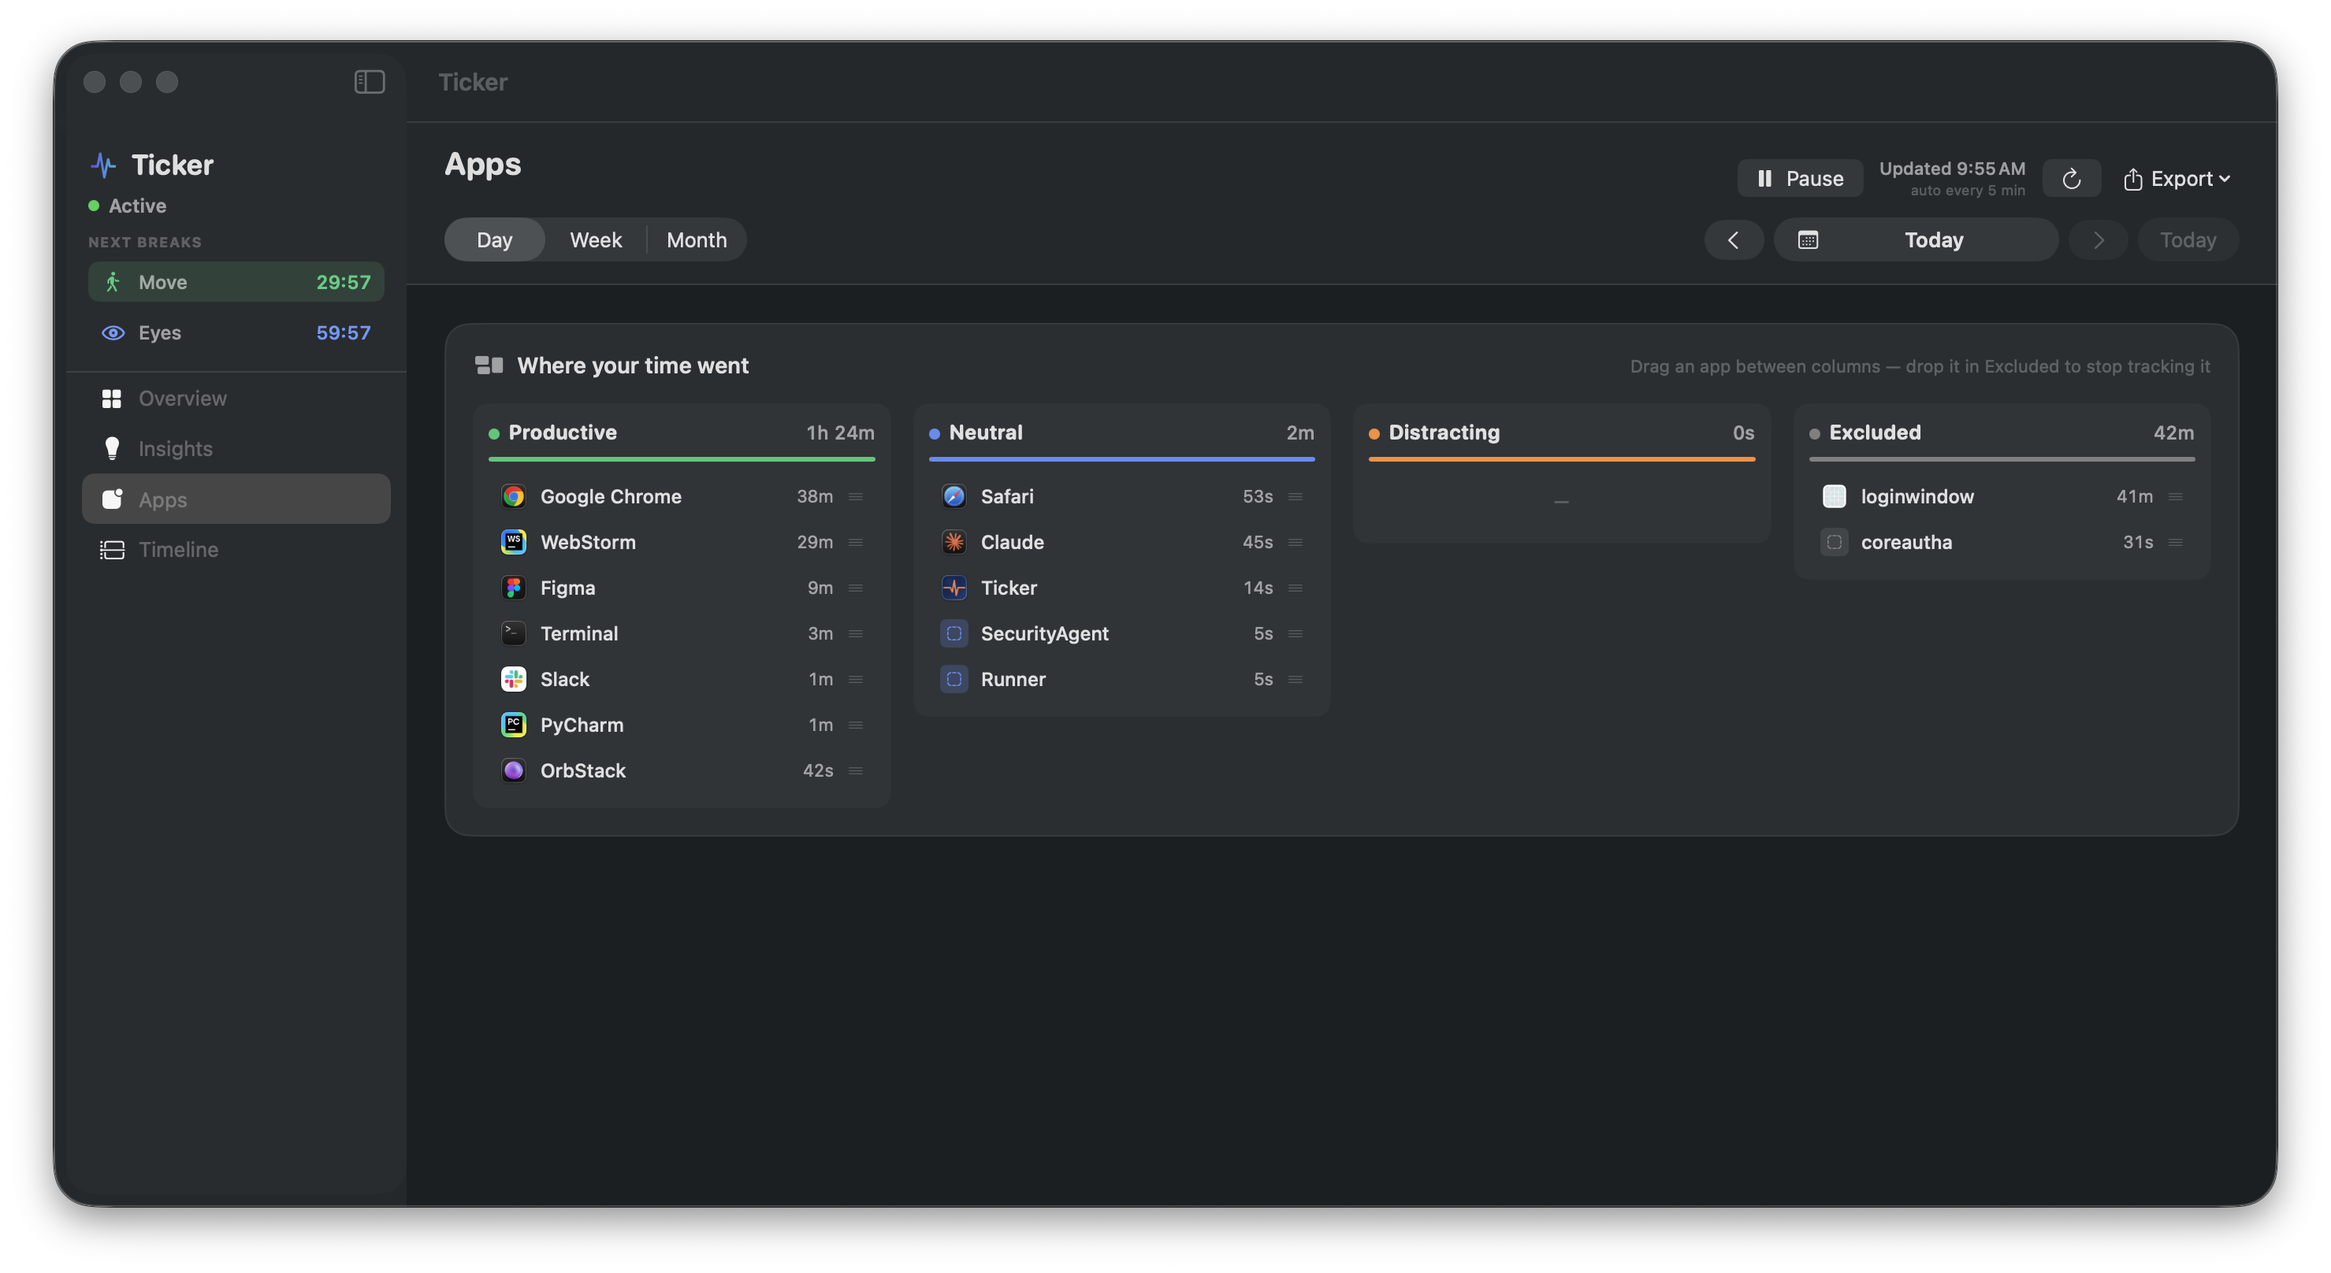
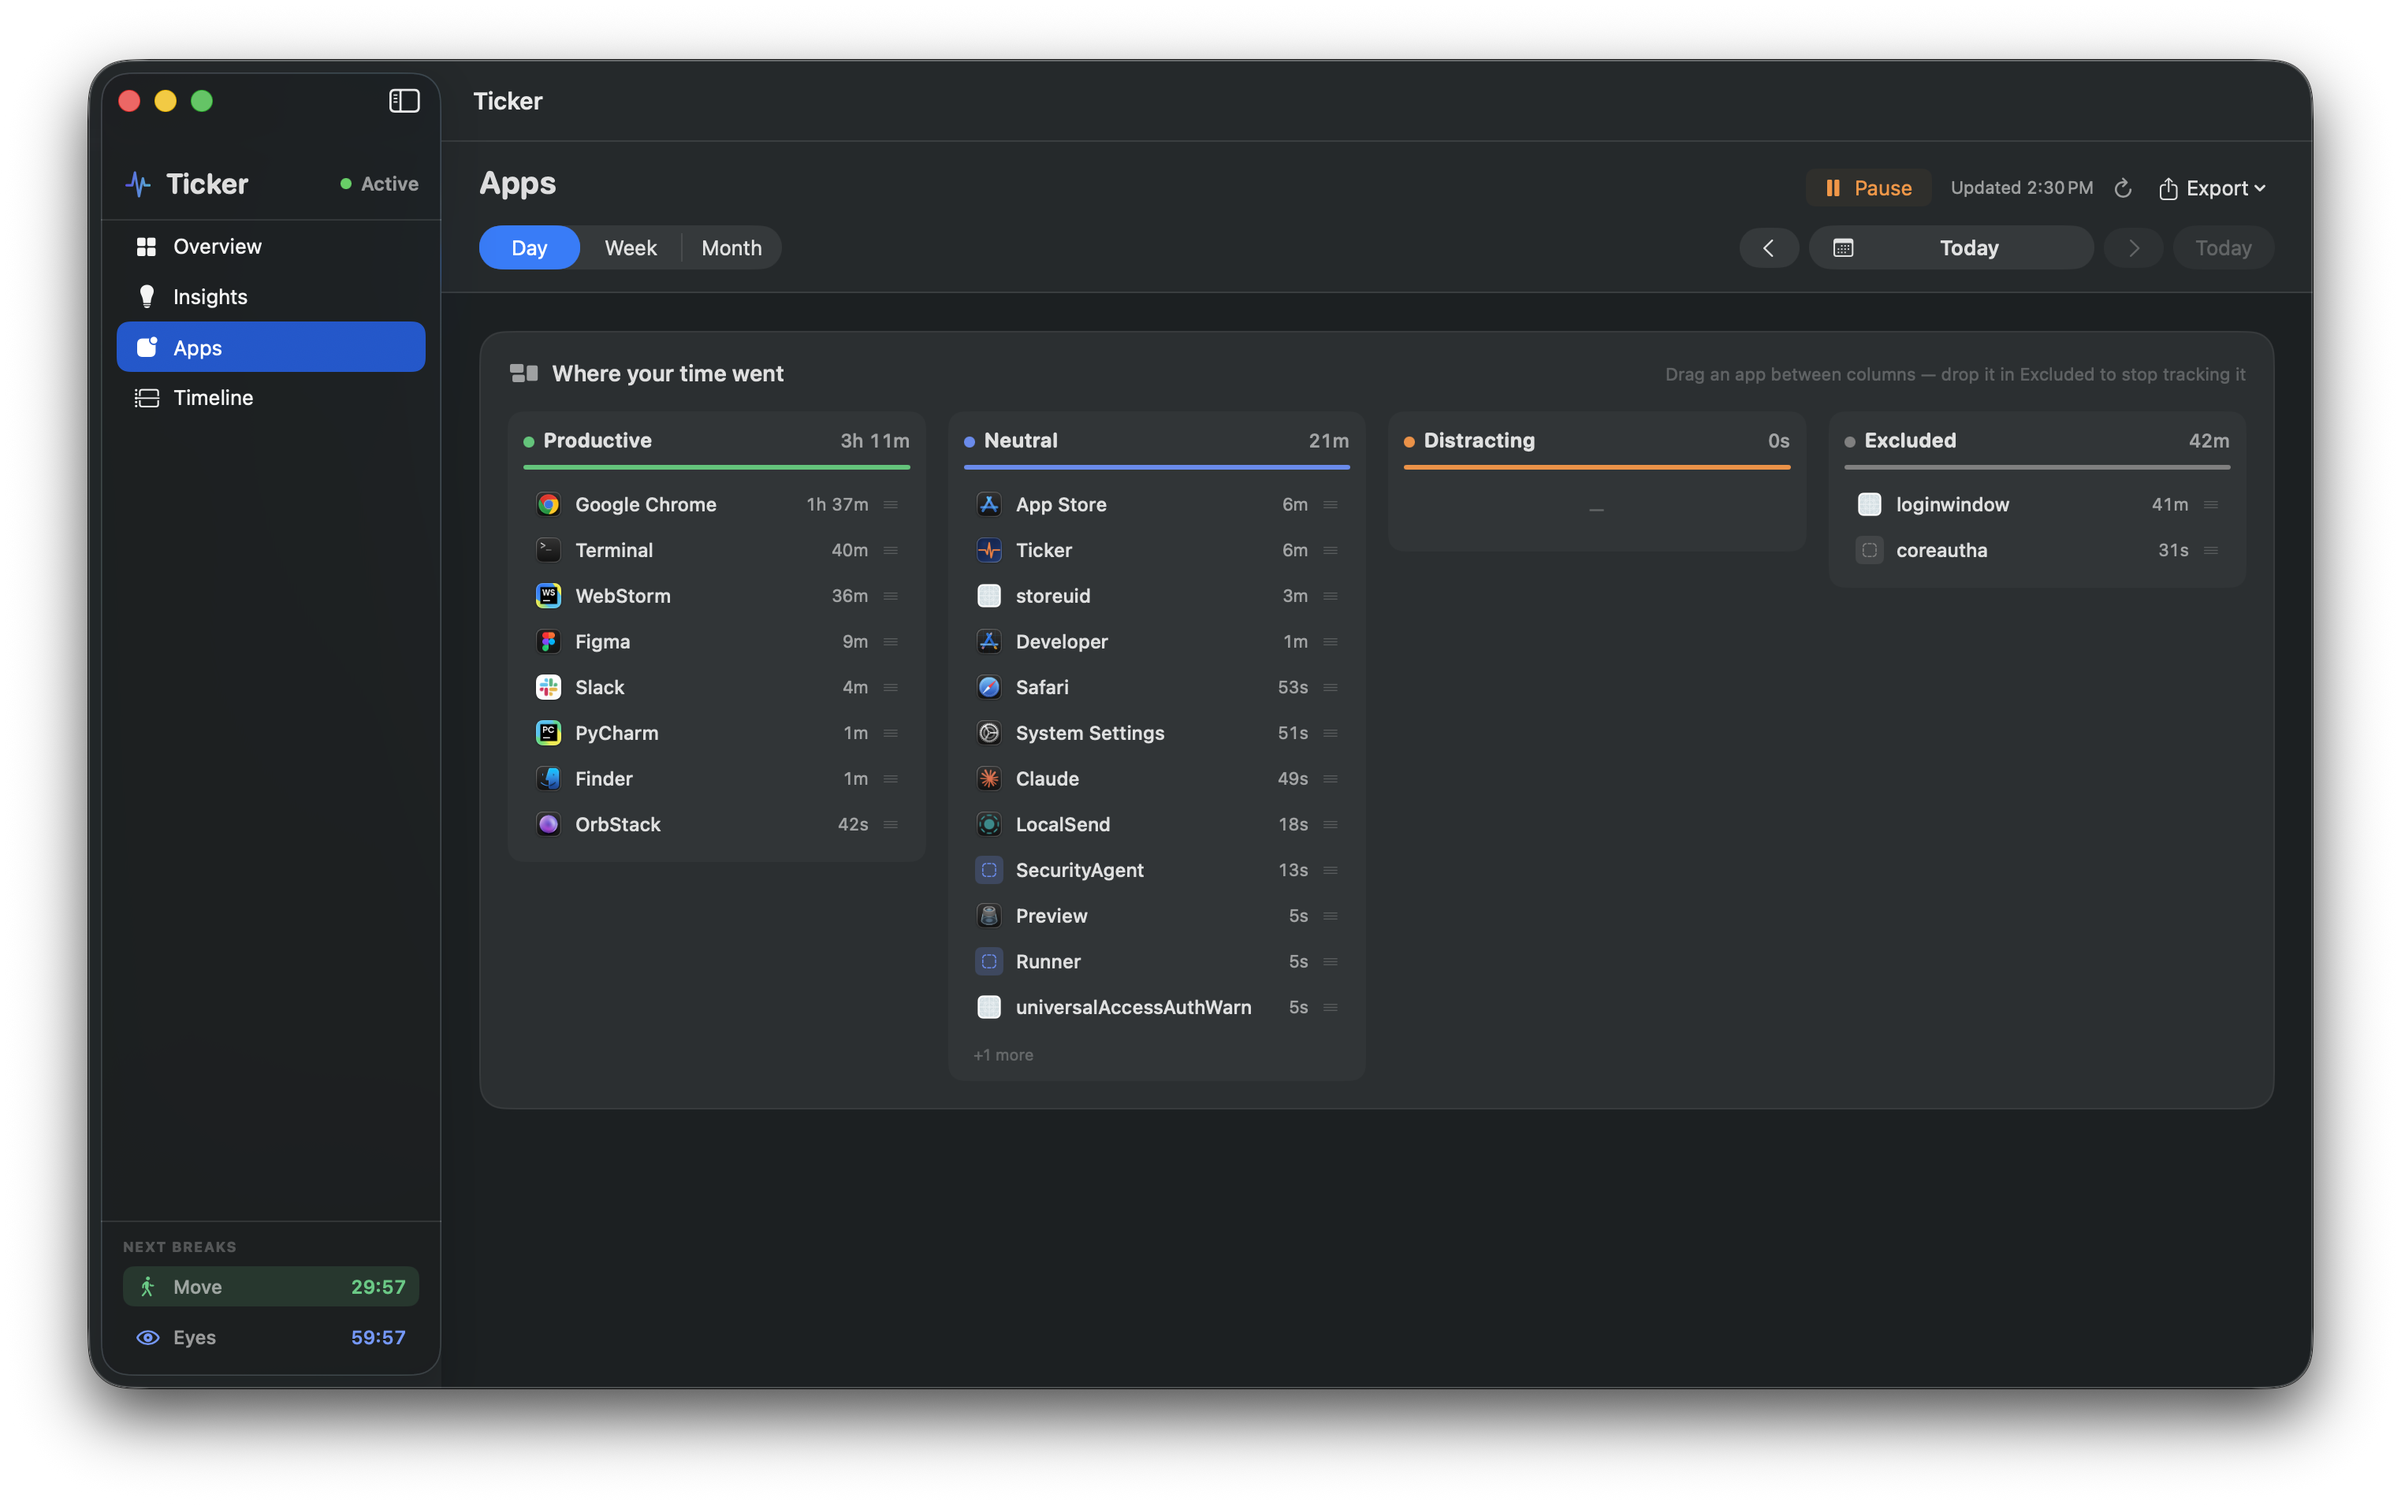
v1.0.2: in-app update notifications + toolbar/sidebar polish
- UpdateChecker: checks GitHub Releases (the only network request) and shows an
  "update available" banner with a Download link. Privacy text updated to
  disclose the version check truthfully.
- Toolbar: flat "Updated <time>" + borderless refresh (no heavy pill), matching
  Pause/Export.
- Sidebar: wordmark + status on one row; "Next breaks" pinned to the bottom.
- Version synced from the release tag (release.yml); bump to 1.0.2.
- Refresh app screenshots.

diff --git a/Sources/Ticker/Views/Dashboard/DashboardView.swift b/Sources/Ticker/Views/Dashboard/DashboardView.swift
@@ -29,6 +29,7 @@ enum DashboardSection: String, CaseIterable, Identifiable {
 struct DashboardView: View {
     @EnvironmentObject private var model: DashboardViewModel
     @EnvironmentObject private var breaks: BreakManager
+    @EnvironmentObject private var updates: UpdateChecker
 
     @State private var showCalendar = false
     @State private var viewerIndex = 0
@@ -108,12 +109,10 @@ struct DashboardView: View {
                 Image(systemName: "waveform.path.ecg")
                     .font(.system(size: 16, weight: .bold)).foregroundStyle(brand)
                 Text("Ticker").font(.system(size: 18, weight: .bold, design: .rounded))
+                Spacer(minLength: 8)
+                LiveStatusView()   // status sits inline with the wordmark
             }
-            .padding(.horizontal, 14).padding(.top, 16).padding(.bottom, 8)
-            LiveStatusView()
-                .padding(.horizontal, 14).padding(.bottom, 10)
-            SidebarBreaksView()
-                .padding(.horizontal, 14).padding(.bottom, 12)
+            .padding(.horizontal, 14).padding(.top, 16).padding(.bottom, 12)
             Divider()
             List(selection: $section) {
                 ForEach(DashboardSection.allCases) { s in
@@ -121,6 +120,10 @@ struct DashboardView: View {
                 }
             }
             .listStyle(.sidebar)
+            // "Next breaks" is separate from navigation — pin it to the bottom.
+            Divider()
+            SidebarBreaksView()
+                .padding(.horizontal, 14).padding(.top, 10).padding(.bottom, 12)
         }
         .navigationSplitViewColumnWidth(min: 200, ideal: 216, max: 260)
     }
@@ -134,20 +137,44 @@ struct DashboardView: View {
             }
             controls
             if !accessibilityOK { permissionBanner }
+            if let update = updates.available { updateBanner(update) }
         }
         .padding(.horizontal, 24).padding(.vertical, 14)
     }
 
-    private var toolbarActions: some View {
+    private func updateBanner(_ update: UpdateInfo) -> some View {
         HStack(spacing: 10) {
+            Image(systemName: "arrow.down.circle.fill")
+                .foregroundStyle(.white)
+            Text("Ticker \(update.version) is available")
+                .font(.system(size: 12, weight: .semibold)).foregroundStyle(.white)
+            Text("You're on \(Bundle.main.infoDictionary?["CFBundleShortVersionString"] as? String ?? "—").")
+                .font(.system(size: 11)).foregroundStyle(.white.opacity(0.8))
+            Spacer()
+            Button("Download") { updates.openDownloadPage() }
+                .buttonStyle(.borderedProminent).controlSize(.small).tint(.white)
+                .foregroundStyle(Color(red: 0.20, green: 0.45, blue: 0.95))
+        }
+        .padding(.horizontal, 12).padding(.vertical, 8)
+        .background(Color(red: 0.20, green: 0.45, blue: 0.95),
+                    in: RoundedRectangle(cornerRadius: 10, style: .continuous))
+    }
+
+    private var toolbarActions: some View {
+        HStack(spacing: 12) {
             TrackingToggle()
-            VStack(alignment: .trailing, spacing: 1) {
-                Text("Updated \(lastRefreshed, format: .dateTime.hour().minute())")
-                    .font(.system(size: 11, weight: .medium)).foregroundStyle(.secondary)
-                Text("auto every 5 min").font(.system(size: 9)).foregroundStyle(.tertiary)
+
+            // Quiet, flat "last updated" + a borderless refresh icon — matches
+            // the weight of Pause/Export instead of a heavy pill. Cadence detail
+            // lives in the tooltip.
+            Text("Updated \(lastRefreshed, format: .dateTime.hour().minute())")
+                .font(.system(size: 11)).foregroundStyle(.secondary).monospacedDigit()
+            Button(action: model.rebuild) {
+                Image(systemName: "arrow.clockwise").font(.system(size: 12, weight: .semibold))
             }
-            Button(action: model.rebuild) { Image(systemName: "arrow.clockwise") }
-                .buttonStyle(.bordered).help("Refresh now")
+            .buttonStyle(.borderless)
+            .help("Refresh now — auto-refreshes every 5 minutes")
+
             Menu {
                 Button { model.exportWeeklyPDF() } label: { Label("Weekly report (PDF)", systemImage: "doc.richtext") }
                 Button { model.exportMonthlyPDF() } label: { Label("Monthly report (PDF)", systemImage: "doc.richtext") }

diff --git a/Sources/Ticker/Services/UpdateChecker.swift b/Sources/Ticker/Services/UpdateChecker.swift
@@ -1,0 +1,70 @@
+import Foundation
+import AppKit
+
+struct UpdateInfo: Equatable {
+    let version: String
+    let url: URL
+}
+
+/// Checks GitHub Releases for a newer version and publishes it so the UI can
+/// show an "update available" banner. This is the ONLY network request Ticker
+/// makes — a read-only version check that sends none of your tracked data. It
+/// fails silently when offline.
+@MainActor
+final class UpdateChecker: ObservableObject {
+    @Published private(set) var available: UpdateInfo?
+
+    private let currentVersion = (Bundle.main.infoDictionary?["CFBundleShortVersionString"] as? String) ?? "0"
+    private let endpoint = URL(string: "https://api.github.com/repos/ajaysuwalka/ticker-app/releases/latest")!
+    private var started = false
+
+    func start() {
+        guard !started else { return }
+        started = true
+        check()
+        // Re-check once a day while the app runs.
+        let timer = Timer(timeInterval: 24 * 3600, repeats: true) { [weak self] _ in
+            MainActor.assumeIsolated { self?.check() }
+        }
+        RunLoop.main.add(timer, forMode: .common)
+    }
+
+    func check() {
+        Task { await fetchLatest() }
+    }
+
+    /// Open the release page for the available update.
+    func openDownloadPage() {
+        if let url = available?.url { NSWorkspace.shared.open(url) }
+    }
+
+    private func fetchLatest() async {
+        var request = URLRequest(url: endpoint, timeoutInterval: 15)
+        request.setValue("Ticker-macOS", forHTTPHeaderField: "User-Agent")
+        request.setValue("application/vnd.github+json", forHTTPHeaderField: "Accept")
+
+        guard let (data, response) = try? await URLSession.shared.data(for: request),
+              (response as? HTTPURLResponse)?.statusCode == 200,
+              let json = try? JSONSerialization.jsonObject(with: data) as? [String: Any],
+              let tag = json["tag_name"] as? String,
+              let page = (json["html_url"] as? String).flatMap(URL.init(string:))
+        else { return }
+
+        let latest = tag.hasPrefix("v") ? String(tag.dropFirst()) : tag
+        available = Self.isNewer(latest, than: currentVersion)
+            ? UpdateInfo(version: latest, url: page)
+            : nil
+    }
+
+    /// Semantic-ish comparison: 1.0.2 > 1.0.1 > 1.0.
+    static func isNewer(_ candidate: String, than current: String) -> Bool {
+        func parts(_ s: String) -> [Int] { s.split(separator: ".").map { Int($0) ?? 0 } }
+        let a = parts(candidate), b = parts(current)
+        for i in 0..<max(a.count, b.count) {
+            let ai = i < a.count ? a[i] : 0
+            let bi = i < b.count ? b[i] : 0
+            if ai != bi { return ai > bi }
+        }
+        return false
+    }
+}

diff --git a/Sources/Ticker/App/TickerApp.swift b/Sources/Ticker/App/TickerApp.swift
@@ -11,6 +11,7 @@ struct TickerApp: App {
     @StateObject private var pausedPresenter: PausedReminderPresenter
     @StateObject private var idlePresenter: IdleReviewPresenter
     @StateObject private var notifications: NotificationCoordinator
+    @StateObject private var updates = UpdateChecker()
 
     init() {
         let store = TickerStore()
@@ -33,6 +34,7 @@ struct TickerApp: App {
                 .environmentObject(tracker)
                 .environmentObject(dashboard)
                 .environmentObject(breaks)
+                .environmentObject(updates)
                 .frame(minWidth: 900, minHeight: 640)
                 .onAppear(perform: bootstrap)
         }
@@ -72,6 +74,7 @@ struct TickerApp: App {
         pausedPresenter.start()
         idlePresenter.start()
         notifications.start()
+        updates.start()
 
         // Run at login by default — set up once on first launch so the app is
         // there when you sign in. Users can turn it off in Settings → General.

diff --git a/Sources/Ticker/Views/Settings/SettingsView.swift b/Sources/Ticker/Views/Settings/SettingsView.swift
@@ -222,7 +222,8 @@ struct GeneralSettings: View {
             Section("Privacy") {
                 Label("Ticker records the active app and its window title (e.g. browser tab or project) and "
                       + "counts how many keys/clicks you make — never which keys or what you type. Screenshots "
-                      + "are off unless you turn on the Screen Timeline above. Everything stays on this Mac.",
+                      + "are off unless you turn on the Screen Timeline above. Your data stays on this Mac; the "
+                      + "only network request Ticker makes is a version check to GitHub.",
                       systemImage: "hand.raised.fill")
                     .font(.caption)
                     .foregroundStyle(.secondary)

diff --git a/README.md b/README.md
@@ -120,9 +120,13 @@ next launch — the signing cert from step 3 means you only do this once).
 ## Privacy
 
 Everything is stored locally in `~/Library/Application Support/Ticker/`
-(`data.json` + a `shots/` thumbnail folder). Nothing leaves your Mac. Ticker
-counts *how many* keys/clicks you make — never *which* keys or *what* you type.
-Screenshots are off unless you turn them on, and are auto-deleted.
+(`data.json` + a `shots/` thumbnail folder). **Your tracked data never leaves
+your Mac.** Ticker counts *how many* keys/clicks you make — never *which* keys or
+*what* you type. Screenshots are off unless you turn them on, and are
+auto-deleted.
+
+Ticker's **only** network request is an anonymous **version check** to GitHub, so
+it can tell you when an update is available — it sends none of your data.
 
 To wipe data: **Settings → Data → Clear all tracked data**, or delete the folder.
 
